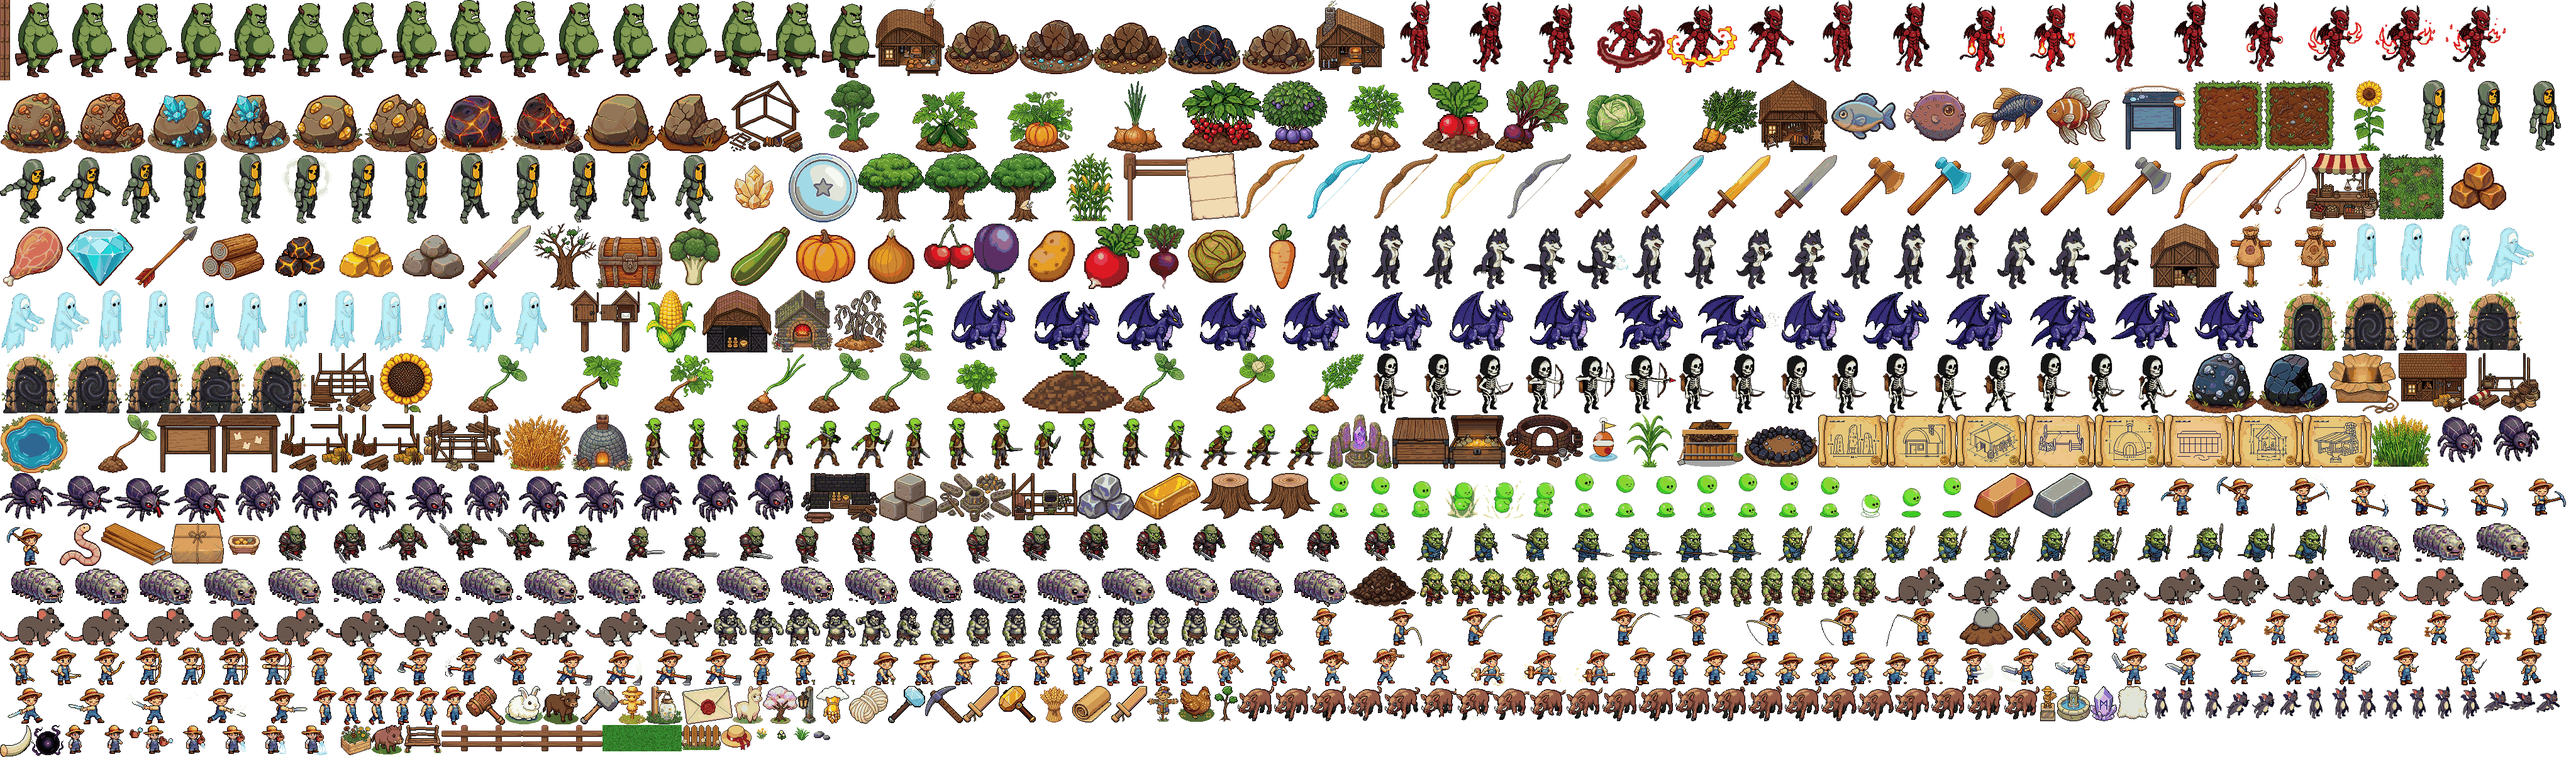
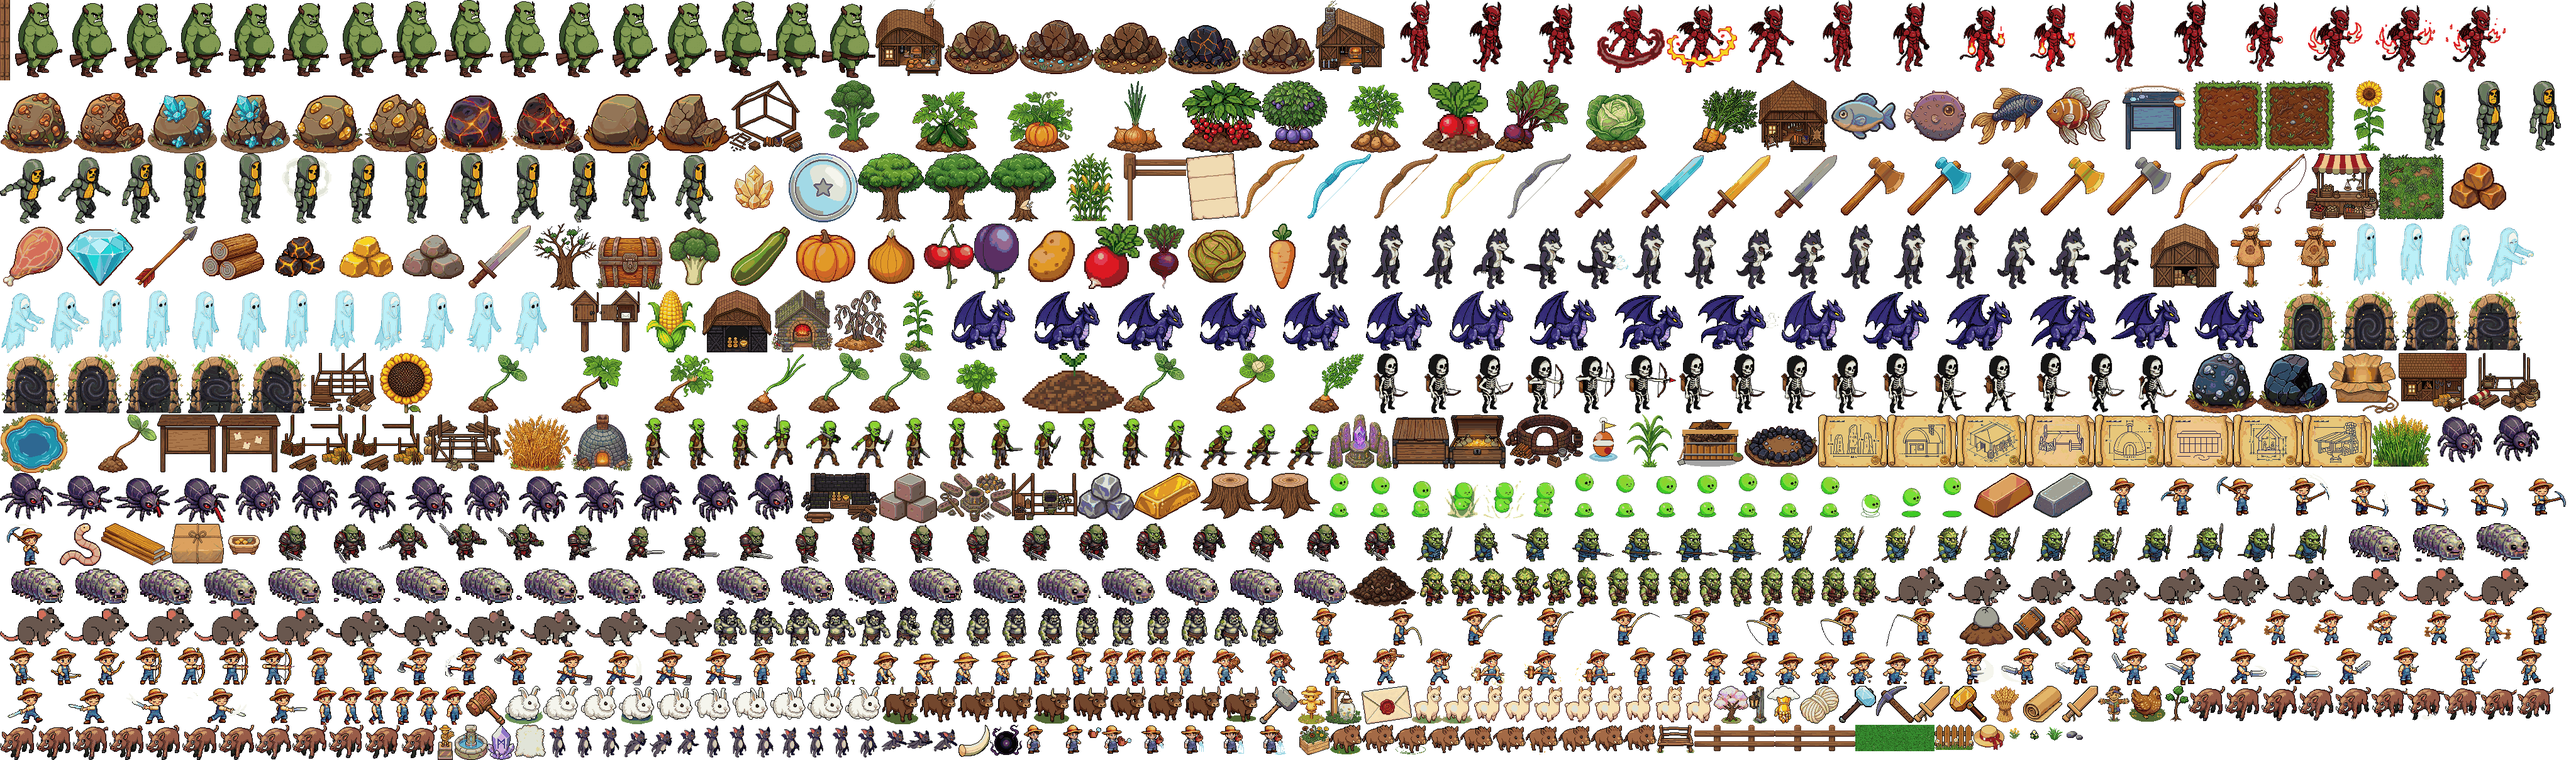
deploy lun 21/09/2026 15:33:20,39

diff --git a/public/game/ui.js b/public/game/ui.js
@@ -3421,6 +3421,12 @@ function refreshCurtiduria() {
 }
 
 /* ---- Establo: animales, felicidad y producción ("2das mejoras") ---- */
+// El mismo animal que pasea por la granja aparece en su ficha: el emoji queda sólo como respaldo.
+function establoAnimalIc(k, d) {
+  const emoji = (d && d.emoji) || "🐾", label = (d && d.label) || "Animal";
+  return '<img class="animal-ic" src="' + GF.spr("animal_" + k) + '" alt="' + label +
+    '" draggable="false" onerror="this.outerHTML=\'<span class=&quot;em&quot;>' + emoji + '</span>\'">';
+}
 function refreshEstablo() {
   const box = $("establo-list"); if (!box) return;
   /* 22/8: el cupo total sale del nivel de Ganadería — el establo lo dice en la cara */
@@ -3445,7 +3451,7 @@ function refreshEstablo() {
     const racion = d.racion || 1;
     const come = d.come.map(c => racion + " " + (CROP_DEF[c] ? CROP_DEF[c].label : c)).join(" o ");
     if (!a) {
-      h += '<div class="forge-row"><div class="fic">' + d.emoji + '</div><div class="finfo">' +
+      h += '<div class="forge-row"><div class="fic">' + establoAnimalIc(k, d) + '</div><div class="finfo">' +
         '<div class="fnm">' + d.label + '</div>' +
         '<div class="fds">Come ' + come + ' · produce ' + RES_LABEL[d.mat] + ' (' + animalPorCiclo(k) + ' cada ' + fmtSecs(d.cicloH * 3600) + ')</div>' +
         '<div class="fds">Desbloquea la armadura de ' + d.armadura + '</div>' +
@@ -3476,7 +3482,7 @@ function refreshEstablo() {
       /* 11/9 (dirección): « le da hambre cada 24h; si no come no da nada y sigue el CD ». La fila
          dice las dos cosas que importan y nada más: si comió este ciclo, y qué va a dar. */
       const totalI = Math.floor(rindeI + guardI + 1e-9);
-      h += '<div class="forge-row' + (listoI ? ' eq' : '') + '"><div class="fic">' + d.emoji + '</div><div class="finfo">' +
+      h += '<div class="forge-row' + (listoI ? ' eq' : '') + '"><div class="fic">' + establoAnimalIc(k, d) + '</div><div class="finfo">' +
         '<div class="fnm">' + d.label + (cant > 1 ? ' ' + (i + 1) : '') +
           ' <span class="tag"' + (comio ? '' : ' style="color:#a5621a"') + '>' + (comio ? 'comió ✓' : 'con hambre') + '</span></div>' +
         '<div class="fds">' + (listoI
@@ -3496,7 +3502,7 @@ function refreshEstablo() {
         '</div></div>';
     }
     /* la compra vive en su propia fila al pie de la especie: es del ESTABLO, no de un bicho */
-    h += '<div class="forge-row"><div class="fic">' + d.emoji + '</div><div class="finfo">' +
+    h += '<div class="forge-row"><div class="fic">' + establoAnimalIc(k, d) + '</div><div class="finfo">' +
       '<div class="fds">' + d.label + ' ×' + cant + ' · produce ' + RES_LABEL[d.mat] + ' (' + animalPorCiclo(k) + ' cada ' + fmtSecs(d.cicloH * 3600) + ' por animal)</div></div>' +
       '<div class="fbtns"><button class="green sm" ' + (!tope && !lleno && G.plata >= animalPrecio(k) ? "" : "disabled") + ' data-buyani="' + k + '">' +
         (tope ? 'Tope ' + ANIMAL_MAX : lleno ? 'Establo lleno' : 'Otro · ' + coinIc("plata") + fmt(animalPrecio(k))) + '</button></div></div>';

diff --git a/public/game/boot.js b/public/game/boot.js
@@ -134,8 +134,11 @@ class BootScene extends Phaser.Scene {
     if (typeof CROP_ORDER !== "undefined") CROP_ORDER.forEach(k => L.push(["crop_" + k, P + "crop_" + k + ".png"]));
     ["comun","raro","epico","legendario"].forEach(k => L.push(["fish_" + k, P + "fish_" + k + ".png"]));
     ["plata","esencia"].forEach(k => L.push(["coin_" + k, P + "coin_" + k + ".png"]));
-    // animales del Establo (10/8: definitivos, de PixelLab; antes eran provisorios por código)
-    ["alpaca","conejo","toro","jabali"].forEach(k => L.push(["animal_" + k, P + "animal_" + k + ".png?v=2"]));
+    // animales del Establo: pose base más una caminata corta por especie.
+    ["alpaca","conejo","toro","jabali"].forEach(k => {
+      L.push(["animal_" + k, P + "animal_" + k + ".png?v=2"]);
+      for (let i = 0; i < 9; i++) L.push(["animal_" + k + "_walk_" + i, P + "animal_" + k + "_walk_" + i + ".png?v=1"]);
+    });
     // estado individual de hambre: pequeño comedero, no ligado a un cultivo concreto
     L.push(["animal_feed_marker", P + "animal_feed_marker.png?v=1"]);
     L.push(["pet_gallina", P + "pet_gallina.png"]);   // mascota "Pinta" del cofre de login (10/8)
@@ -145,8 +148,8 @@ class BootScene extends Phaser.Scene {
   preload() {
     // ATLAS: todos los sprites del mundo en 2 archivos (mucho más liviano para el server free).
     // Si el atlas no llega, ensureAll() baja los archivos sueltos como respaldo.
-    this.load.image("__atlas", "assets/atlas.png?v=52");
-    this.load.json("__atlasmap", "assets/atlas.json?v=52");
+    this.load.image("__atlas", "assets/atlas.png?v=53");
+    this.load.json("__atlasmap", "assets/atlas.json?v=53");
     // 2/9: la isla viaja en la PRIMERA pasada (es la única imagen que no cabe en el atlas:
     // 1190x854). Antes quedaba para los reintentos y era ella sola la que disparaba una
     // segunda vuelta de descarga en cada carga del juego.
@@ -281,6 +284,11 @@ class BootScene extends Phaser.Scene {
       if (has(ks)) this.anims.create({ key: "boar_walk", frames: ks.map(k => ({ key: k })), frameRate: 10, repeat: -1 }); }
     { const ks = [0,1,2,3,4,5,6,7,8].map(i => "boar_atk_" + i);
       if (has(ks)) this.anims.create({ key: "boar_atk", frames: ks.map(k => ({ key: k })), frameRate: 10, repeat: -1 }); }
+    // animales del Establo: una caminata en loop; al detenerse FarmScene vuelve a la pose base.
+    ["alpaca","conejo","toro","jabali"].forEach(a => {
+      const ks = Array.from({ length: 9 }, (_, i) => "animal_" + a + "_walk_" + i);
+      if (has(ks)) this.anims.create({ key: "animal_" + a + "_walk", frames: ks.map(k => ({ key: k })), frameRate: 9, repeat: -1 });
+    });
     // animaciones del orco y del troll (troll con idle de 4 frames)
     const mobs = { orc: [["idle", 3, 5, -1], ["walk", 6, 9, -1], ["atk", 6, 11, 0]],
                    troll: [["idle", 4, 4, -1], ["walk", 6, 8, -1], ["atk", 6, 10, 0]],

diff --git a/tools/test-carga-una-pasada.js b/tools/test-carga-una-pasada.js
@@ -19,6 +19,7 @@ const ok = (n, c, d) => { if (!c) fallos++; console.log((c ? "  ok   " : "  FALL
 const BOOT = fs.readFileSync(path.join(RAIZ, "public/game/boot.js"), "utf8");
 const ST = fs.readFileSync(path.join(RAIZ, "public/game/state.js"), "utf8");
 const FOREST = fs.readFileSync(path.join(RAIZ, "public/game/forest.js"), "utf8");
+const FARM = fs.readFileSync(path.join(RAIZ, "public/game/farm.js"), "utf8");
 const ATLAS = JSON.parse(fs.readFileSync(path.join(RAIZ, "public/assets/atlas.json"), "utf8")).frames;
 
 /* assetList() de verdad, evaluando el boot con el CROP_ORDER real */
@@ -53,6 +54,24 @@ console.log("\nHACHA Y MAZO NO HEREDAN EL ESPADAZO");
   const gesto = key => creadas.find(a => a.key === key);
   ok("Boot crea ambos gestos con sus ocho frames", !!gesto("act_axe") && gesto("act_axe").frames.length === 8 && !!gesto("act_mace") && gesto("act_mace").frames.length === 8);
   ok("el Bosque elige la animación de hacha y mazo", /tipoArma === "hacha" && this\.anims\.exists\("act_axe"\)/.test(FOREST) && /tipoArma === "mazo" && this\.anims\.exists\("act_mace"\)/.test(FOREST));
+}
+
+console.log("\nLOS ANIMALES DEL ESTABLO CAMINAN");
+{
+  const animales = ["alpaca", "conejo", "toro", "jabali"];
+  const cuadros = animales.flatMap(a => Array.from({ length: 9 }, (_, i) => "animal_" + a + "_walk_" + i));
+  const faltan = cuadros.filter(k => !ATLAS[k]);
+  ok("los 36 cuadros de caminata viajan en el atlas", faltan.length === 0, faltan.join(", "));
+  const creadas = [];
+  const bootDePrueba = Object.create(ctx.__B.prototype);
+  bootDePrueba.textures = { exists: () => true };
+  bootDePrueba.anims = { create: spec => creadas.push(spec) };
+  bootDePrueba.buildAnims();
+  const anim = a => creadas.find(x => x.key === "animal_" + a + "_walk");
+  ok("Boot crea una caminata de nueve cuadros por especie", animales.every(a => anim(a) && anim(a).frames.length === 9));
+  ok("la granja usa Sprite y alterna caminar / quieto", /this\.add\.sprite\(x, y, key\)/.test(FARM) &&
+    /const aniCaminar = "animal_" \+ a\.k \+ "_walk";/.test(FARM) &&
+    /a\.spr\.play\(aniCaminar\)/.test(FARM) && /a\.spr\.setTexture\("animal_" \+ a\.k\)/.test(FARM));
 }
 
 console.log("\nEL BESTIARIO TAMBIÉN (la fase «Cargando criaturas…» no pide nada)");

diff --git a/public/game/farm.js b/public/game/farm.js
@@ -3005,7 +3005,7 @@ class FarmScene extends Phaser.Scene {
         if (!pt) pt = this.puntoAnimal();
         if (!pt) pt = { x: (this.corral.x1 + this.corral.x2) / 2, y: (this.corral.y1 + this.corral.y2) / 2 };
         const x = pt.x, y = pt.y;
-        const spr = this.add.image(x, y, key).setOrigin(0.5, 1);
+        const spr = this.add.sprite(x, y, key).setOrigin(0.5, 1);
         spr.setScale((GF.TILE * 0.78) / spr.width);
         const marca = this.add.image(x, y - 30, resSprite(ANIMAL_DEF[k].mat) || key).setDepth(99991).setVisible(false);
         marca.setDisplaySize(16, 16);
@@ -3070,7 +3070,9 @@ class FarmScene extends Phaser.Scene {
       }
       const dx = a.tx - a.spr.x, dy = a.ty - a.spr.y, d = Math.hypot(dx, dy);
       const anda = d > 3;
+      const aniCaminar = "animal_" + a.k + "_walk";
       if (anda) {
+        if (this.anims.exists(aniCaminar) && (a.spr.anims.currentAnim?.key !== aniCaminar || !a.spr.anims.isPlaying)) a.spr.play(aniCaminar);
         const v = Math.min(d, 16 * dt);
         a.spr.x += dx / d * v; a.spr.y += dy / d * v;
         if (Math.abs(dx) > 1) a.spr.setFlipX(dx < 0);           // mira hacia donde camina
@@ -3078,7 +3080,7 @@ class FarmScene extends Phaser.Scene {
         a.spr.y -= 0;                                            // el "trote" es un cabeceo de escala
         a.spr.setScale(a.spr.scaleX < 0 ? -Math.abs(a.spr.scaleX) : Math.abs(a.spr.scaleX),
           Math.abs(a.spr.scaleX) * (1 + Math.sin(a.bob) * 0.05));
-      }
+      } else if (a.spr.anims.isPlaying) { a.spr.anims.stop(); a.spr.setTexture("animal_" + a.k); }
       a.spr.setDepth(a.spr.y);
       // La señal pertenece a ESTE animal: hambre siempre gana a material, y el que ya comió pero
       // espera queda visualmente limpio. Así el corral no contradice al panel del Establo.

diff --git a/public/index.html b/public/index.html
@@ -465,6 +465,7 @@
   .forge-row.eq{border-color:var(--gold);box-shadow:0 0 0 1px var(--gold) inset}
   .forge-row .fic{width:46px;height:46px;flex:0 0 auto;background:#efe3c6;border:2px solid #d3c298;border-radius:9px;display:flex;align-items:center;justify-content:center;font-size:22px}
   .forge-row .fic img{width:82%;height:82%;object-fit:contain;image-rendering:auto}
+  .forge-row .fic img.animal-ic{width:100%;height:100%;image-rendering:pixelated;transform:translateY(1px)}
   .forge-row .finfo{flex:1;min-width:0}
   .forge-row .fnm{font-weight:800;font-size:13px}
   .forge-row .fnm .tag{font-size:10px;color:#3f6b2a;border:1px solid #3f6b2a;border-radius:6px;padding:0 5px;margin-left:6px}
@@ -1923,7 +1924,7 @@
     // 15/8: VERSIÓN DE BUILD — rompe la caché del navegador en cada deploy (sin esto, el
     // jugador seguía corriendo el state.js viejo aunque el servidor tuviera el nuevo).
     // deploy.bat la actualiza sola (busca GF_BUILD y pone la fecha/hora del deploy).
-    const GF_BUILD = "20260921-145218";
+    const GF_BUILD = "20260921-153320";
     const files = ["game/config.js","game/nav.js","game/audio.js","game/state.js","game/save.js","game/ui.js","game/boot.js",
                    "game/farm.js","game/forest.js","game/plaza.js","game/main.js","game/update.js"];
     /* 24/8 — SE BAJAN TODOS A LA VEZ, SE EJECUTAN EN FILA (dirección: « sigue tardando en

diff --git a/public/game/state.js b/public/game/state.js
@@ -10909,7 +10909,7 @@ function albumFamilias() {
       tiene: (k) => statGet("minar", k) > 0 || vistoRes(k) },
     { id: "animales", ic: "🐄", label: "Animales", orden: ANIMAL_ORDER,
       nom: (k) => (ANIMAL_DEF[k] && ANIMAL_DEF[k].label) || k,
-      spr: () => null, emo: (k) => (ANIMAL_DEF[k] && ANIMAL_DEF[k].emoji) || "🐾",
+      spr: (k) => "animal_" + k, emo: (k) => (ANIMAL_DEF[k] && ANIMAL_DEF[k].emoji) || "🐾",
       tiene: (k) => (typeof animalCant === "function" ? animalCant(k) : 0) > 0 || statGet("alimentar", k) > 0 },
     { id: "bestiario", ic: "⚔", label: "Bestiario", orden: (typeof MONSTER_ORDER !== "undefined" ? MONSTER_ORDER : Object.keys(MONSTER_DEF)),
       nom: (k) => (MONSTER_DEF[k] && MONSTER_DEF[k].label) || k,

diff --git a/TODO.md b/TODO.md
@@ -292,6 +292,7 @@ Están desarrolladas en el GDD §15.0, con sus números medidos. Aquí solo el t
 - [ ] **Árboles, piedras y parcelas**: siguen siendo el set viejo con el color calmado.
 - [x] **Piedra vs hierro**: veta de hierro fría, oscura y con estados propios; piedra queda cálida y redondeada.
 - [x] **Animaciones de ataque propias por arma**: espada y arco conservan las suyas; hacha y mazo suman ocho frames propios cada una.
+- [x] **Animales del Establo**: sprites reales en Establo y Álbum; alpaca, conejo, toro y jabalí caminan con nueve cuadros propios.
 
 ## ⚫ Ofrecido y sin pedir
 
